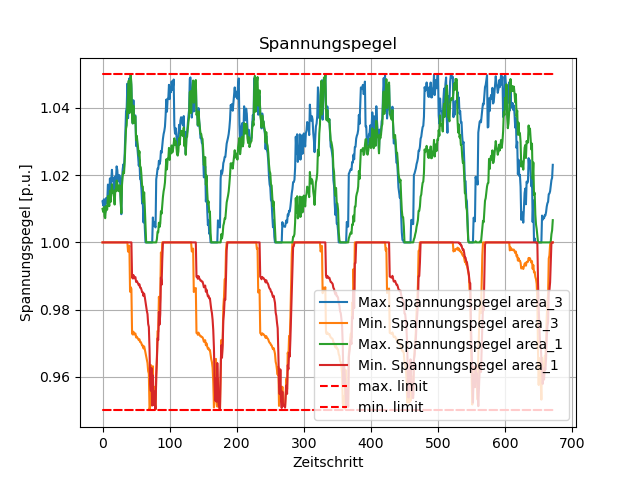
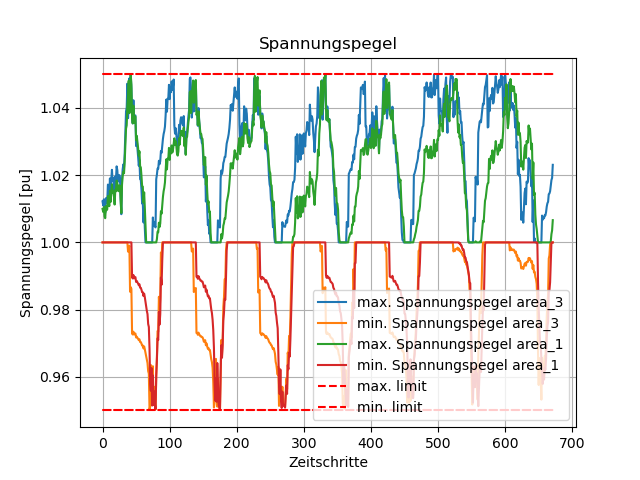
exercise_4.5_final

diff --git a/exercises/Kai-Luca/exercise_4/exercise_5.py b/exercises/Kai-Luca/exercise_4/exercise_5.py
@@ -40,7 +40,7 @@ def area3_net():
 
 
 def create_controllers(net, loads_area3, sgens_area3, loads_area1, sgens_area1, ds):
-    #constcontroler für für Lasten und Generatoren von Area_1 hinzufügen
+    #ConstControl für für Lasten und Generatoren von Area_1 hinzufügen
     ConstControl(net, element="load", variable="scaling", element_index=loads_area3,
                  data_source=ds, profile_name="loads")
     ConstControl(net, element="sgen", variable="scaling", element_index=sgens_area3,
@@ -51,7 +51,9 @@ def create_controllers(net, loads_area3, sgens_area3, loads_area1, sgens_area1, 
                  data_source=ds, profile_name="sgens")
 
     KLController(net, max_limit_pu=1.05, min_limit_pu=0.95)
+    #Netz auswählen, dass der W_Controller regeln soll -> area_1
     dennis_net = MyGrid(net, 0)
+    #W_Controller hinzufügen, regelt Spannungen von area_1
     W_Controller(net, element="voltage", my_grid=dennis_net,limits_pu=[0.95, 1.05])
     return net
 
@@ -60,12 +62,12 @@ def create_output_writer(net, buses_area3, time_steps, output_dir):
     #ow für Spannungspegel, welche von WController geregelt werden, hinzufügen
     ow = OutputWriter(net, time_steps, output_path=output_dir, output_file_type=".xlsx", log_variables=list())
 
-    ow.log_variable("res_bus", "vm_pu", index=buses_area3, eval_function=np.max, eval_name="Max. Spannungspegel area_3")
-    ow.log_variable("res_bus", "vm_pu", index=buses_area3, eval_function=np.min, eval_name="Min. Spannungspegel area_3")
+    ow.log_variable("res_bus", "vm_pu", index=buses_area3, eval_function=np.max, eval_name="max. Spannungspegel area_3")
+    ow.log_variable("res_bus", "vm_pu", index=buses_area3, eval_function=np.min, eval_name="min. Spannungspegel area_3")
 
     dennis_net = MyGrid(net, 0)
-    ow.log_variable("res_bus", "vm_pu", index=dennis_net.get_indices("bus"), eval_function=np.max, eval_name="Max. Spannungspegel area_1")
-    ow.log_variable("res_bus", "vm_pu", index=dennis_net.get_indices("bus"), eval_function=np.min, eval_name="Min. Spannungspegel area_1")
+    ow.log_variable("res_bus", "vm_pu", index=dennis_net.get_indices("bus"), eval_function=np.max, eval_name="max. Spannungspegel area_1")
+    ow.log_variable("res_bus", "vm_pu", index=dennis_net.get_indices("bus"), eval_function=np.min, eval_name="min. Spannungspegel area_1")
 def timeseries_area3(output_dir):
     net, buses_area3, lines_area3, loads_area3, sgens_area3, buses_area1, loads_area1, sgens_area1 = area3_net()
     profiles, ds, n_timesteps = create_data_source()
@@ -86,8 +88,8 @@ vm_pu = pd.read_excel(vm_pu_file, index_col=0)
 vm_pu.plot(label="vm_pu")
 plt.hlines(y=1.05, xmin=0, xmax=len(vm_pu), linestyles="dashed", label="max. limit", color="red")
 plt.hlines(y=0.95, xmin=0, xmax=len(vm_pu), linestyles="dashed", color="red", label="min. limit")
-plt.xlabel("Zeitschritt")
-plt.ylabel("Spannungspegel [p.u.]")
+plt.xlabel("Zeitschritte")
+plt.ylabel("Spannungspegel [pu]")
 plt.title("Spannungspegel")
 plt.legend()
 plt.grid()
